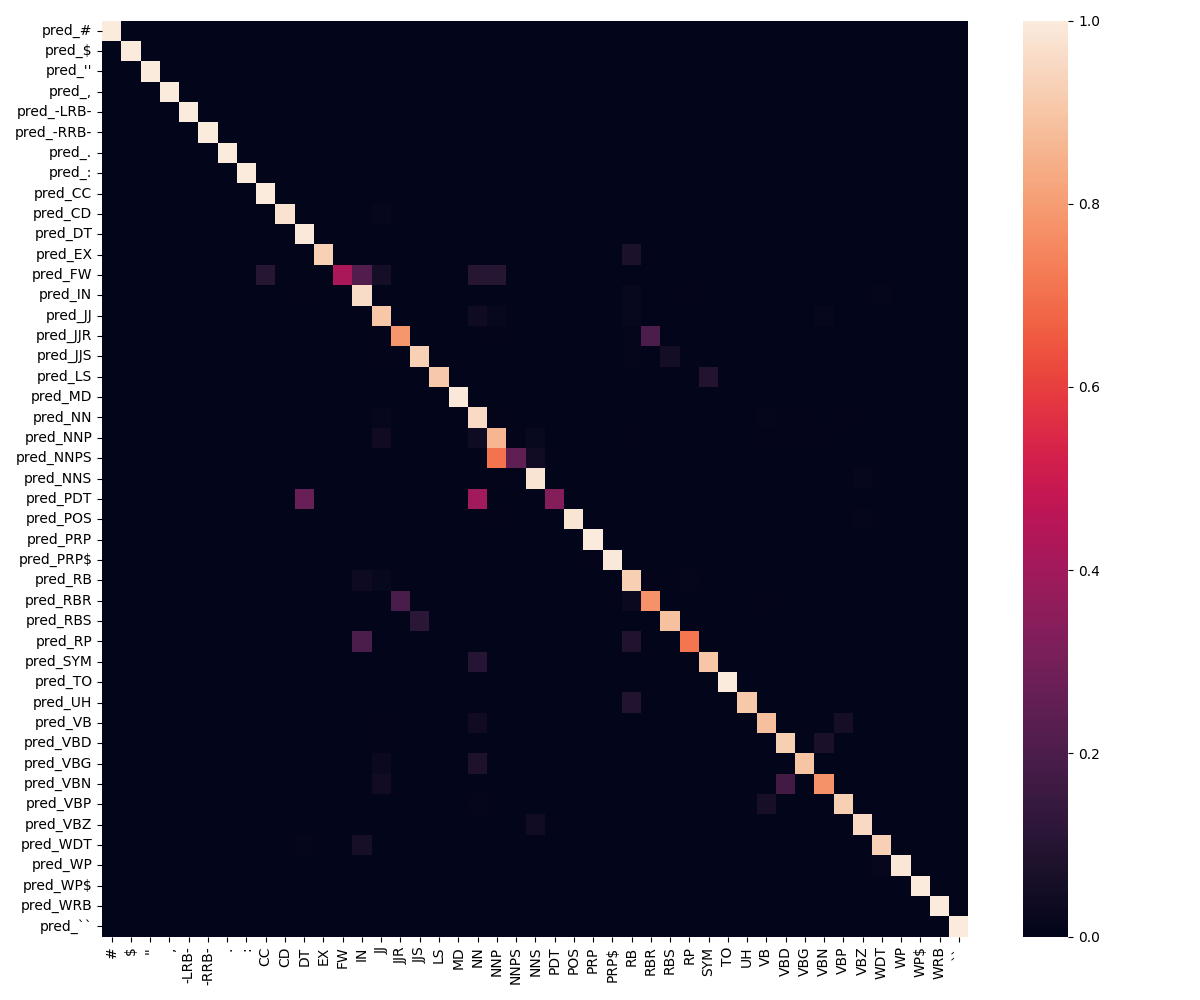
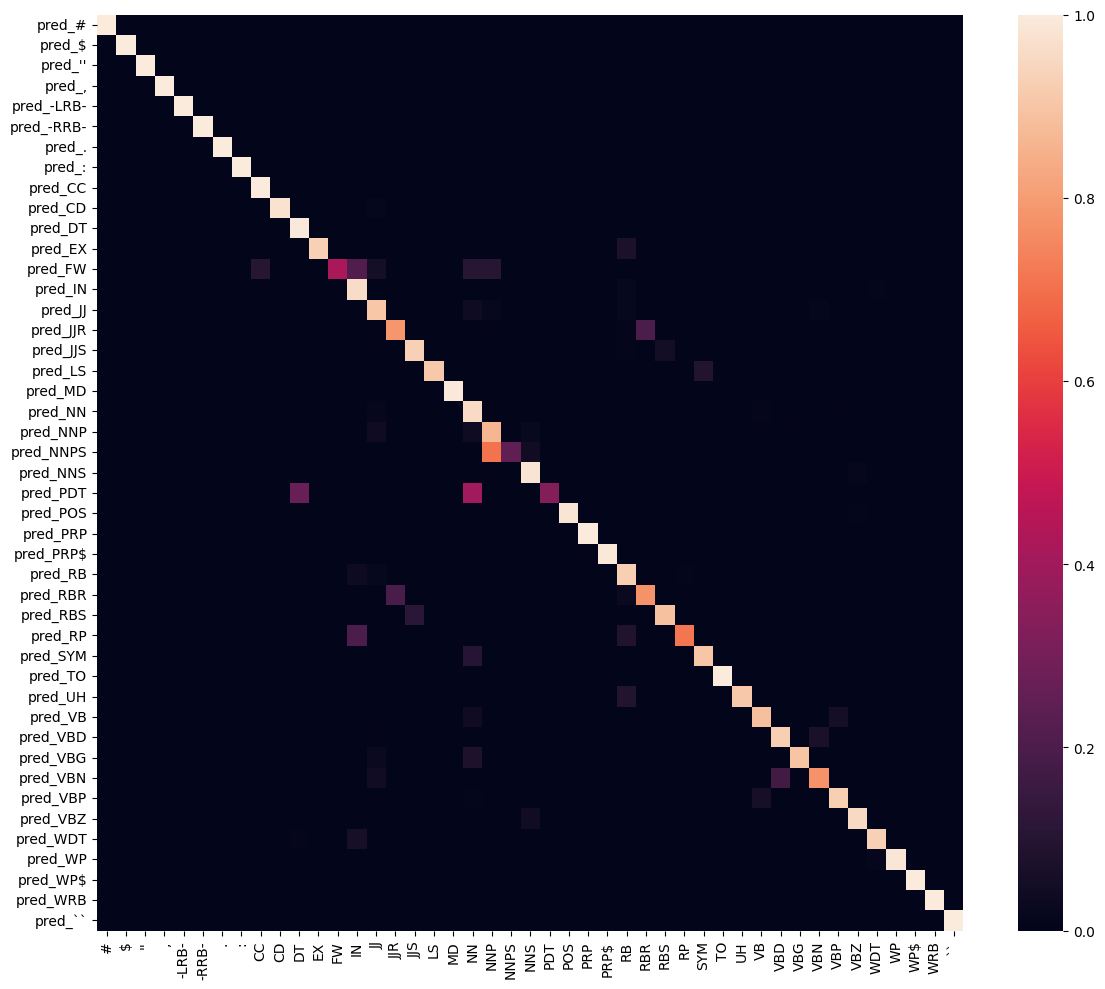
Atualizando visualizações

diff --git a/visualization.py b/visualization.py
@@ -8,7 +8,29 @@ unigram.fillna(0, inplace=True)
 fig, ax = plt.subplots(figsize=(12,10))
 sns.heatmap(unigram, ax=ax)
 plt.tight_layout()
-plt.savefig("resultados_unigram_val.png")
+plt.savefig("resultados_unigram_val.png", bbox_inches='tight')
+plt.clf()
+
+unigram = pd.read_csv('metrics_unigram_val.csv', index_col=0)
+unigram.iloc[:, 4].plot.barh(figsize=(10, 10))
+plt.margins(x=0.1)
+plt.xticks([0, 0.5, 1.0], fontsize=14)
+plt.yticks(fontsize=14)
+for j, v in enumerate(unigram.iloc[:, 4]):
+    plt.text(v + 0.001, j - .11, "{:.3f}".format(v), color='black', size=13)
+plt.tight_layout()
+plt.savefig("recall_unigram_val.png", bbox_inches='tight')
+plt.clf()
+
+unigram.iloc[:, 8].plot.barh(figsize=(10, 10))
+plt.margins(x=0.1)
+plt.xticks([0, 0.5, 1.0], fontsize=14)
+plt.yticks(fontsize=14)
+for j, v in enumerate(unigram.iloc[:, 8]):
+    plt.text(v + 0.001, j - .11, "{:.3f}".format(v), color='black', size=13)
+plt.tight_layout()
+plt.savefig("precision_unigram_val.png", bbox_inches='tight')
+plt.clf()
 
 unigram = pd.read_csv('resultados_unigram_test.csv', index_col=0)
 unigram = unigram.div(unigram.sum(axis=1), axis=0)
@@ -16,7 +38,29 @@ unigram.fillna(0, inplace=True)
 fig, ax = plt.subplots(figsize=(12,10))
 sns.heatmap(unigram, ax=ax)
 plt.tight_layout()
-plt.savefig("resultados_unigram_test.png")
+plt.savefig("resultados_unigram_test.png", bbox_inches='tight')
+plt.clf()
+
+unigram = pd.read_csv('metrics_unigram_test.csv', index_col=0)
+unigram.iloc[:, 4].plot.barh(figsize=(10, 10))
+plt.margins(x=0.1)
+plt.xticks([0, 0.5, 1.0], fontsize=14)
+plt.yticks(fontsize=14)
+for j, v in enumerate(unigram.iloc[:, 4]):
+    plt.text(v + 0.001, j - .11, "{:.3f}".format(v), color='black', size=13)
+plt.tight_layout()
+plt.savefig("recall_unigram_test.png", bbox_inches='tight')
+plt.clf()
+
+unigram.iloc[:, 8].plot.barh(figsize=(10, 10))
+plt.margins(x=0.1)
+plt.xticks([0, 0.5, 1.0], fontsize=14)
+plt.yticks(fontsize=14)
+for j, v in enumerate(unigram.iloc[:, 8]):
+    plt.text(v + 0.001, j - .11, "{:.3f}".format(v), color='black', size=13)
+plt.tight_layout()
+plt.savefig("precision_unigram_test.png", bbox_inches='tight')
+plt.clf()
 
 bigram = pd.read_csv('resultados_bigram_val.csv', index_col=0)
 bigram = bigram.div(bigram.sum(axis=1), axis=0)
@@ -24,12 +68,56 @@ bigram.fillna(0, inplace=True)
 fig, ax = plt.subplots(figsize=(12,10))
 sns.heatmap(bigram, ax=ax)
 plt.tight_layout()
-plt.savefig("resultados_bigram_val.png")
+plt.savefig("resultados_bigram_val.png", bbox_inches='tight')
+plt.clf()
 
-unigram = pd.read_csv('resultados_bigram_test.csv', index_col=0)
-unigram = unigram.div(unigram.sum(axis=1), axis=0)
-unigram.fillna(0, inplace=True)
-fig, ax = plt.subplots(figsize=(12,10))
-sns.heatmap(unigram, ax=ax)
+bigram = pd.read_csv('metrics_bigram_val.csv', index_col=0)
+bigram.iloc[:, 4].plot.barh(figsize=(10, 10))
+plt.margins(x=0.1)
+plt.xticks([0, 0.5, 1.0], fontsize=14)
+plt.yticks(fontsize=14)
+for j, v in enumerate(bigram.iloc[:, 4]):
+    plt.text(v + 0.001, j - .11, "{:.3f}".format(v), color='black', size=13)
 plt.tight_layout()
-plt.savefig("resultados_bigram_test.png")
+plt.savefig("recall_bigram_val.png", bbox_inches='tight')
+plt.clf()
+
+bigram.iloc[:, 8].plot.barh(figsize=(10, 10))
+plt.margins(x=0.1)
+plt.xticks([0, 0.5, 1.0], fontsize=14)
+plt.yticks(fontsize=14)
+for j, v in enumerate(bigram.iloc[:, 8]):
+    plt.text(v + 0.001, j - .11, "{:.3f}".format(v), color='black', size=13)
+plt.tight_layout()
+plt.savefig("precision_bigram_val.png", bbox_inches='tight')
+plt.clf()
+
+bigram = pd.read_csv('resultados_bigram_test.csv', index_col=0)
+bigram = bigram.div(bigram.sum(axis=1), axis=0)
+bigram.fillna(0, inplace=True)
+fig, ax = plt.subplots(figsize=(12,10))
+sns.heatmap(bigram, ax=ax)
+plt.tight_layout()
+plt.savefig("resultados_bigram_test.png", bbox_inches='tight')
+plt.clf()
+
+bigram = pd.read_csv('metrics_bigram_test.csv', index_col=0)
+bigram.iloc[:, 4].plot.barh(figsize=(10, 10))
+plt.margins(x=0.1)
+plt.xticks([0, 0.5, 1.0], fontsize=14)
+plt.yticks(fontsize=14)
+for j, v in enumerate(bigram.iloc[:, 4]):
+    plt.text(v + 0.001, j - .11, "{:.3f}".format(v), color='black', size=13)
+plt.tight_layout()
+plt.savefig("recall_bigram_test.png", bbox_inches='tight')
+plt.clf()
+
+bigram.iloc[:, 8].plot.barh(figsize=(10, 10))
+plt.margins(x=0.1)
+plt.xticks([0, 0.5, 1.0], fontsize=14)
+plt.yticks(fontsize=14)
+for j, v in enumerate(bigram.iloc[:, 8]):
+    plt.text(v + 0.001, j - .11, "{:.3f}".format(v), color='black', size=13)
+plt.tight_layout()
+plt.savefig("precision_bigram_test.png", bbox_inches='tight')
+plt.clf()

diff --git a/bigram.py b/bigram.py
@@ -25,6 +25,7 @@ def pair_is_not_valid(pair):
     return len(pair) < 3
 
 def preprocess_token(token):
+    return token
     return token.lower()
 
 def token_is_known(token):

diff --git a/unigram.py b/unigram.py
@@ -23,6 +23,7 @@ def pair_is_not_valid(pair):
     return len(pair) < 3
 
 def preprocess_token(token):
+    return token
     return token.lower()
 
 def token_is_known(token):
